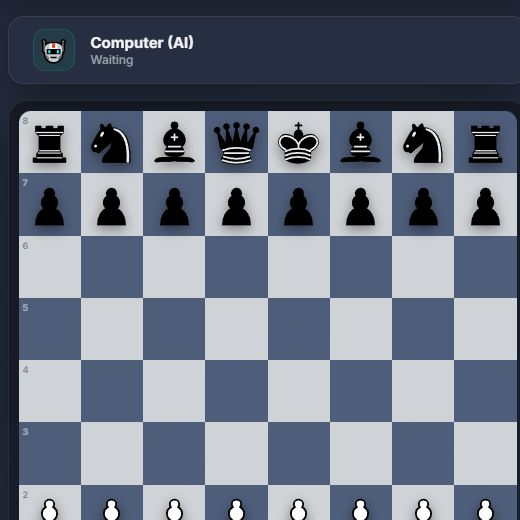
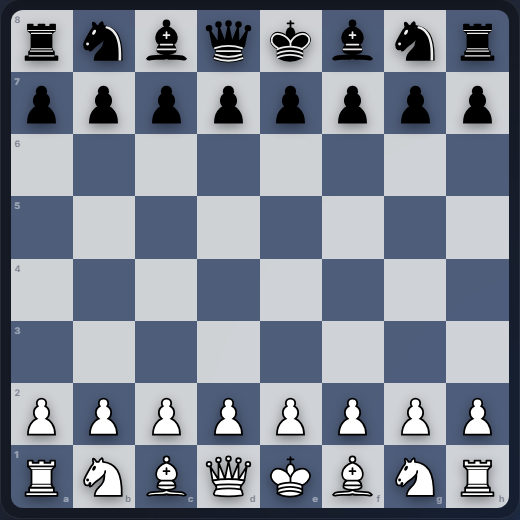
Refine project gallery cards

diff --git a/index.html b/index.html
@@ -62,8 +62,10 @@
 
 			.project-card {
 				display: grid;
+				grid-template-rows: auto 174px;
 				overflow: hidden;
 				width: min( 100%, 400px );
+				height: min( calc( 100vw - 32px + 174px ), 574px );
 				border: 1px solid rgba( 255, 255, 255, 0.13 );
 				border-radius: 8px;
 				background: rgba( 255, 255, 255, 0.05 );
@@ -93,6 +95,7 @@
 				display: grid;
 				gap: 10px;
 				align-content: start;
+				grid-template-rows: auto 1fr auto;
 				padding: 20px;
 			}
 
@@ -143,7 +146,7 @@
 					<img class="project-thumbnail" src="assets/thumbnails/browser-chess.png" alt="Browser Chess screenshot">
 					<div class="project-copy">
 						<h2>Browser Chess</h2>
-						<p>Playable chess board with local play, AI difficulty settings, move history, and PGN export.</p>
+						<p>Playable chess with local play, AI difficulty settings, move history, and PGN export.</p>
 						<span class="tag">Game</span>
 					</div>
 				</a>